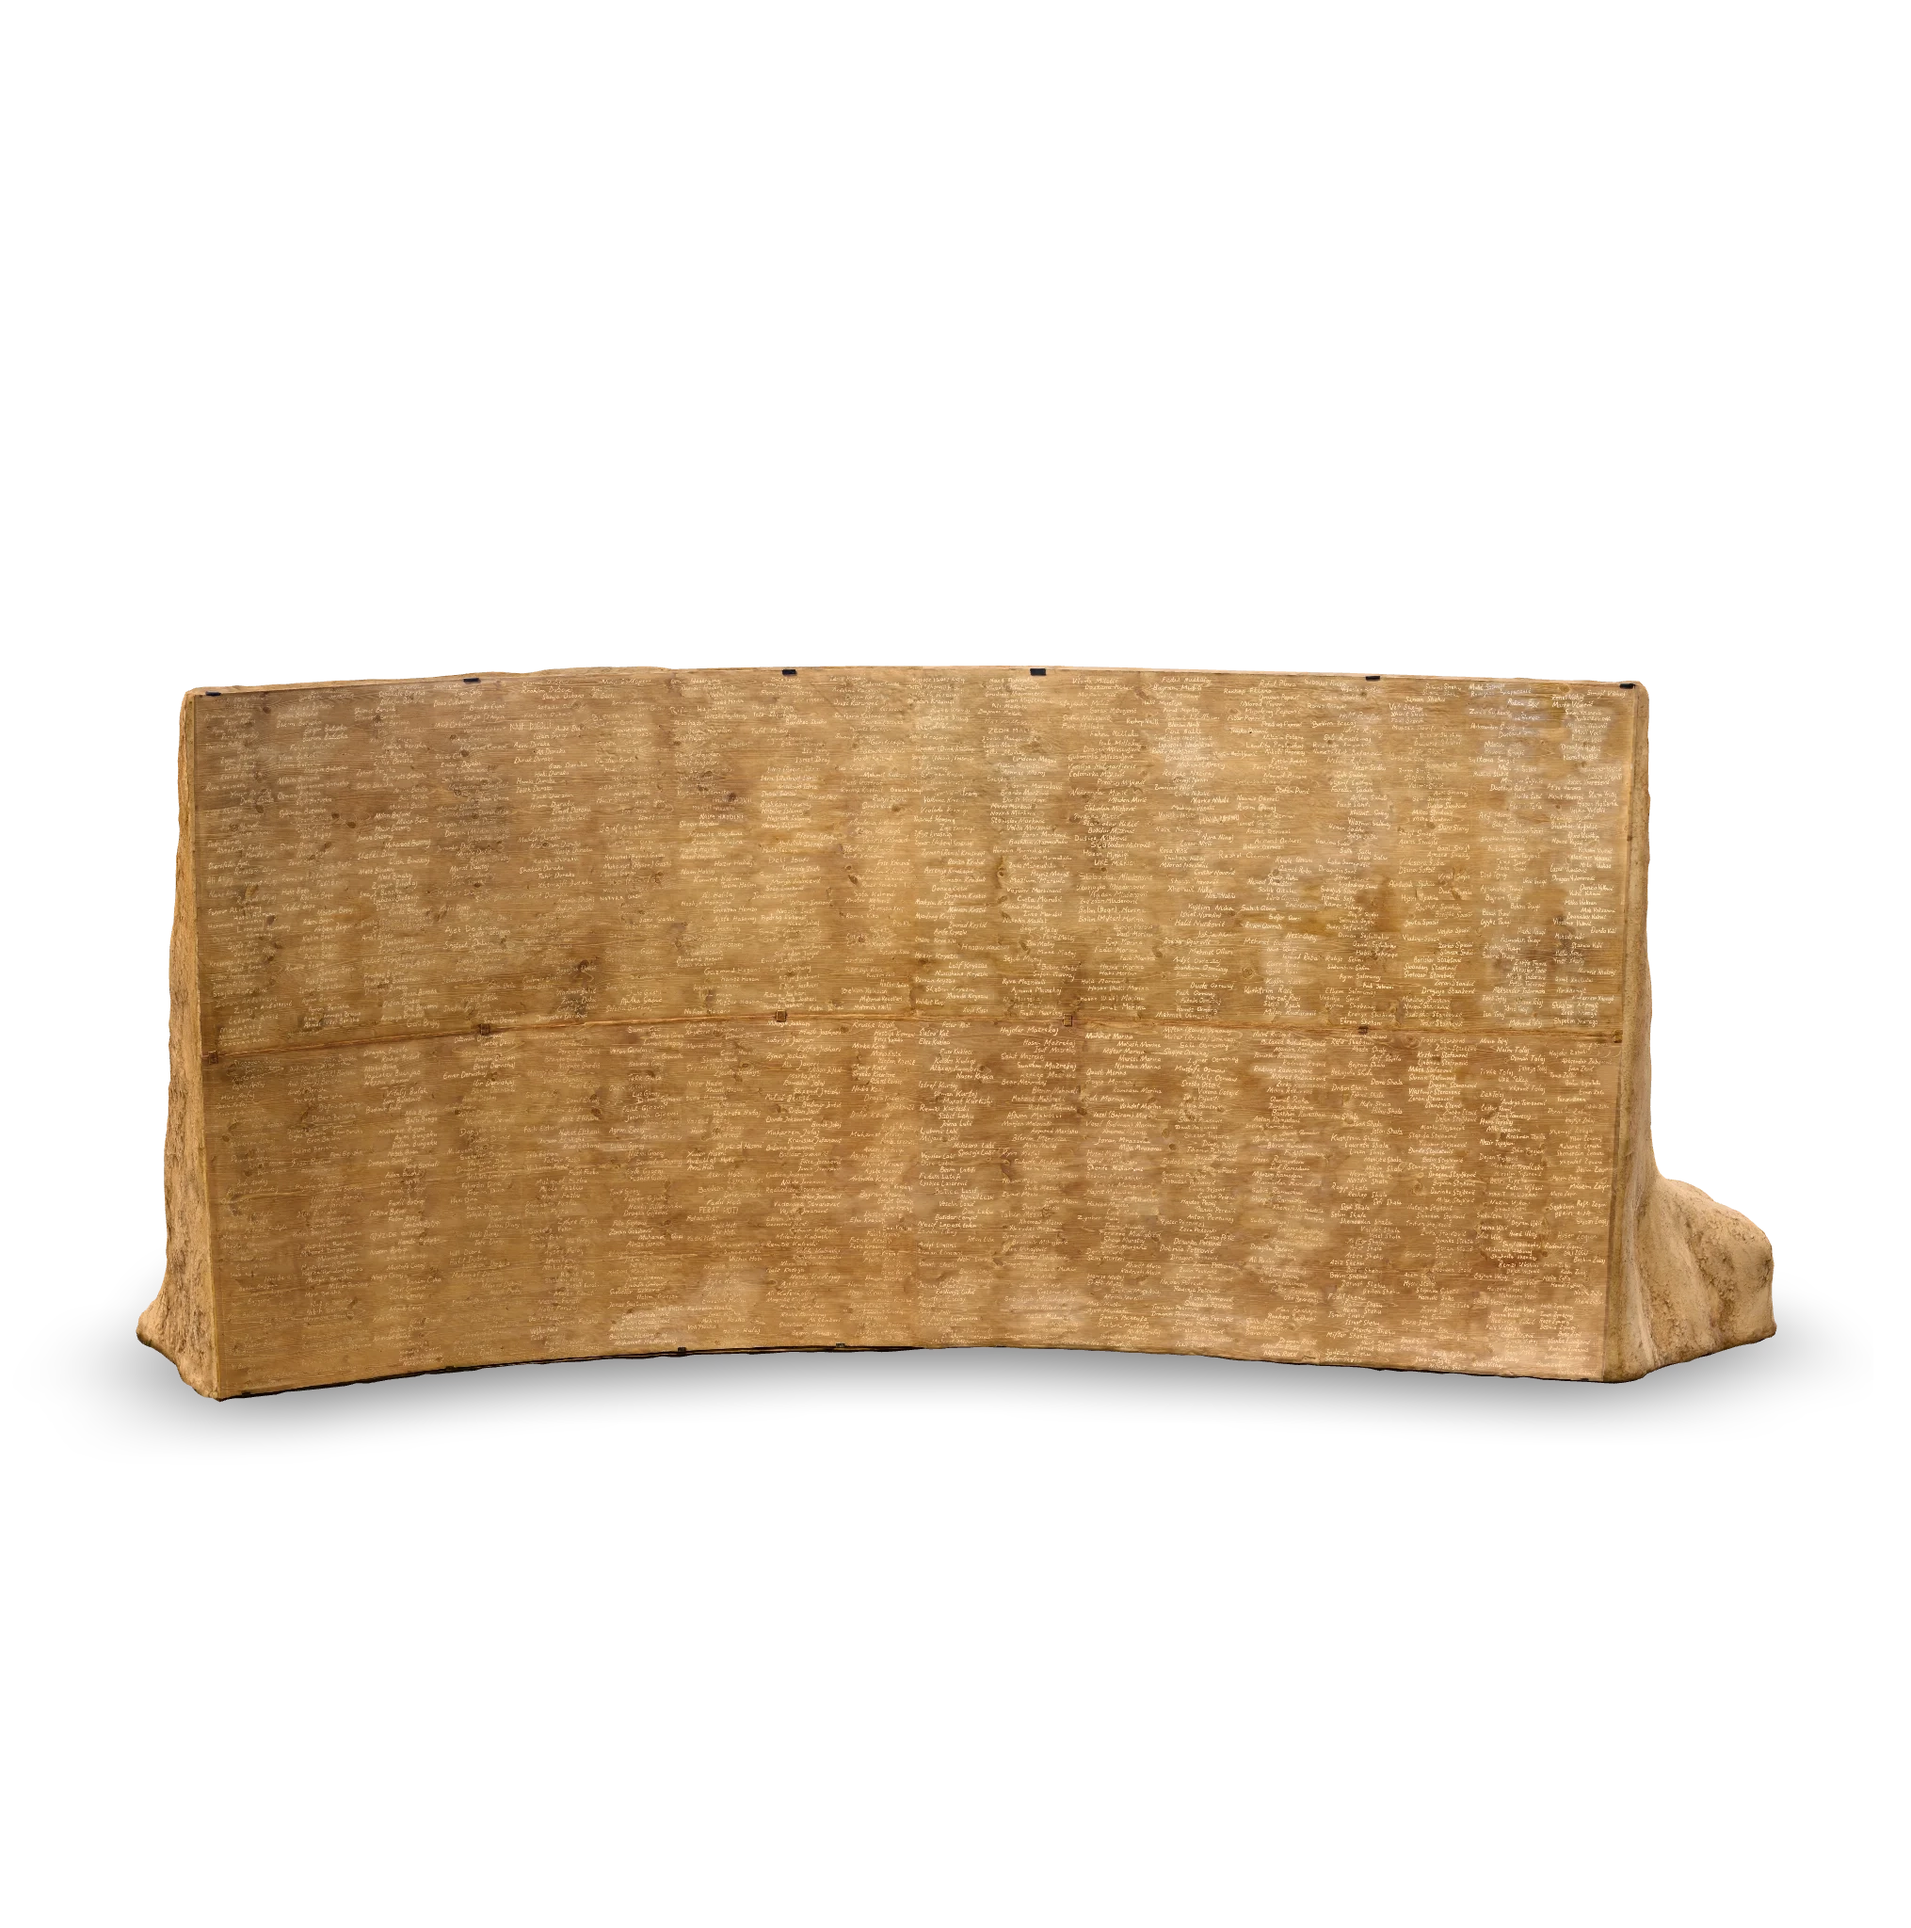
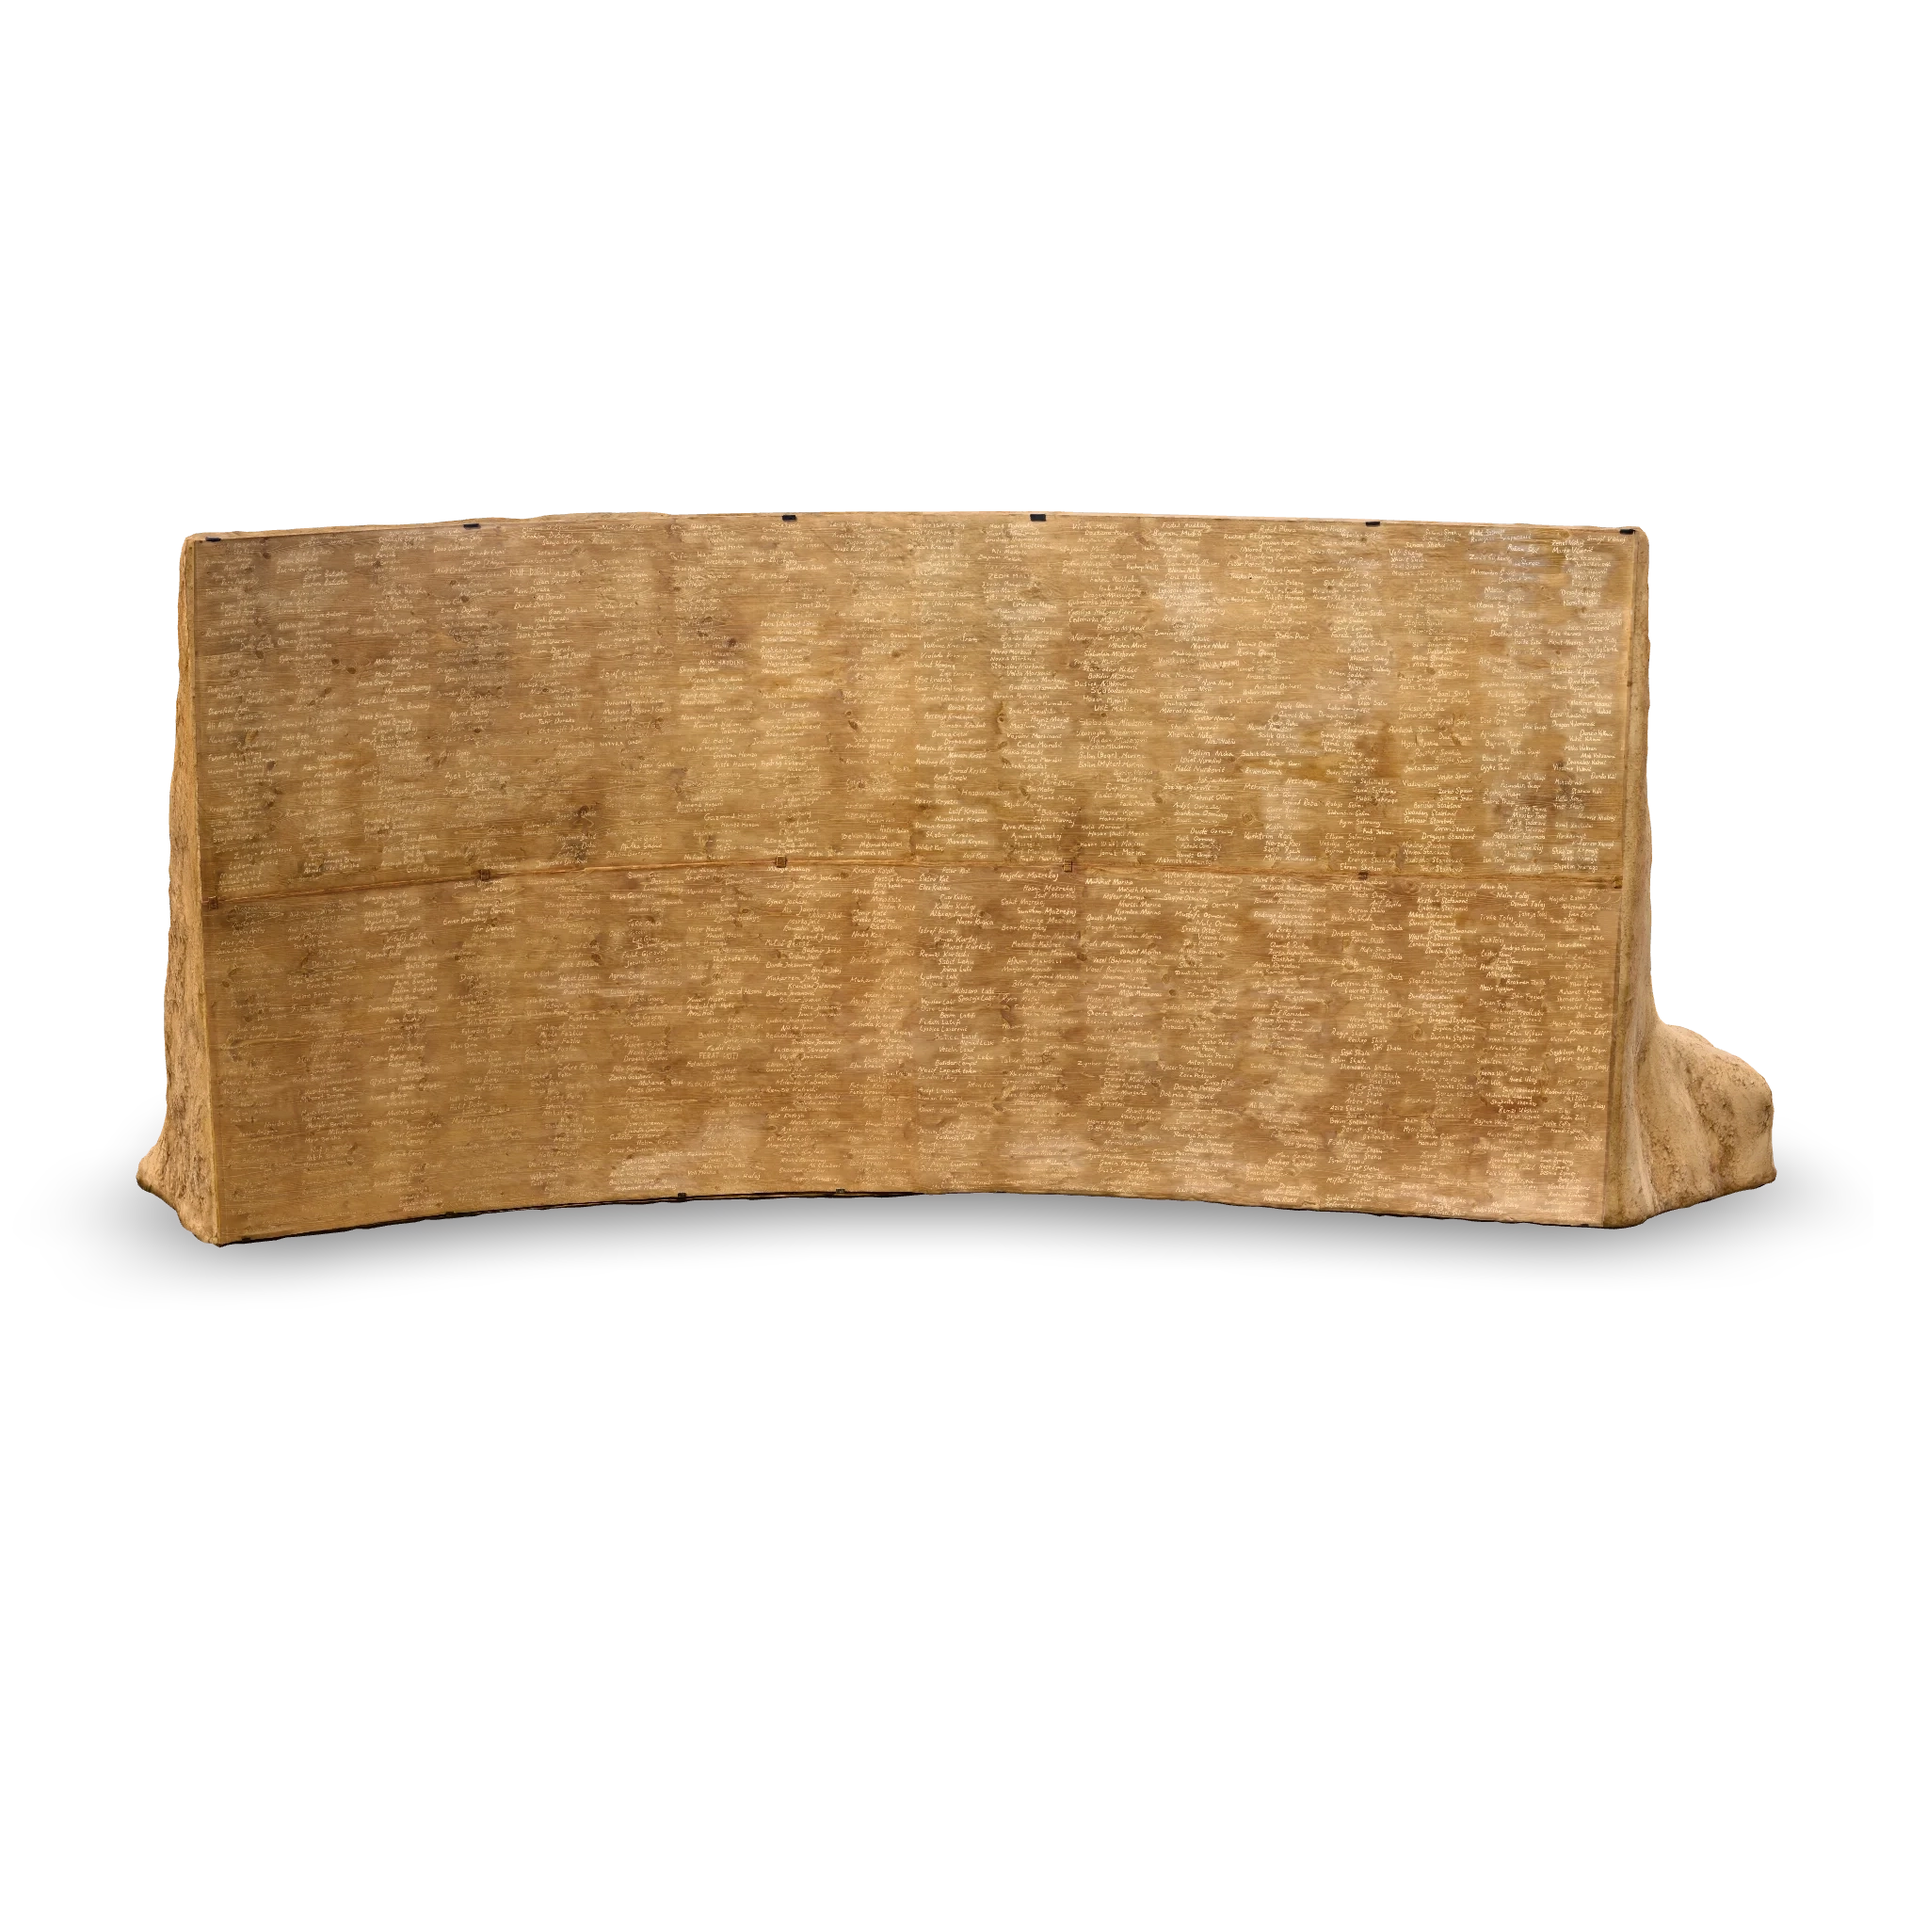
Add files via upload

Changed region(s): [[0.0621, 0.25, 0.9621, 0.75]]

diff --git a/styles.css b/styles.css
@@ -37,6 +37,8 @@ model-viewer {
     box-shadow: 0px 3px 10px 3px rgba(0, 0, 0, 0.5), 0px 0px 5px 1px rgba(0, 0, 0, 0.6);
     border: 1px solid rgba(255, 255, 255, 0.9);
     background-color: rgba(0, 0, 0, 0.5);
+    /* NEW FIX: Forces GPU compositing for visibility on iOS */
+    will-change: transform; 
 }
 
 .progress-bar.hide {
@@ -51,6 +53,8 @@ model-viewer {
     border-radius: 25px;
     float: left;
     transition: width 0.3s;
+    /* NEW FIX: Forces GPU compositing for animation visibility on iOS */
+    will-change: width; 
 }
 
 #ar-button {
@@ -64,7 +68,7 @@ model-viewer {
     left: 50%;
     transform: translateX(-50%);
     white-space: nowrap;
-    bottom: 82px;
+    bottom: 102px;
     padding: 0px 16px 0px 40px;
     font-family: 'Roboto Regular', 'Helvetica Neue', sans-serif;
     font-size: 14px;
@@ -191,13 +195,53 @@ model-viewer > #ar-prompt > img {
 
 /* Logo row styling */
 .logos-row {
-  width: 100%;
+    width: 100%;
+    display: flex; 
+    align-items: center;
+
+    margin: 0 -25px 0 -25px;
+    
+    /* FIX: Increase horizontal padding to align with modal content. */
+    /* Padding is now: 10px top/bottom, 20px left/right */
+    padding: 10px 0px; 
+    //background-color: pink; 
 }
+
 .logos-row .logo-img {
-  height: 40px;
-  width: auto;
-  max-width: 25%;
-  object-fit: contain;
-  display: inline-block;
-  vertical-align: middle;
+    height: 40px; 
+    width: auto;
+    max-width: 25%;
+    object-fit: contain;
+    /* RETAINED: No default margins */
 }
+
+/* NEW: Apply 15px margin to the right of the first three logos */
+.logos-row .logo-img:nth-child(-n+3) {
+    margin-right: 25px;
+    margin-left:0px;
+}
+
+/* This still pushes the 4th logo (EU Logo) to the far right */
+.logos-row .logo-img:nth-child(4) {
+    margin-left: auto;
+    margin-right: -25px; 
+    /* Ensure no extra margin is applied here, it relies on auto */
+}
+
+/* --- Close Button Style --- */
+#closeModal {
+    background: none;
+    border: none;
+    font-size: 35px;  /* Makes the 'X' icon large */
+    color: #333;      /* Dark gray color */
+    cursor: pointer;
+    z-index: 60;      /* Ensure it sits above all other modal content */
+    padding: 5px;
+    line-height: 0.5;
+    transition: color 0.15s ease;
+}
+
+#closeModal:hover {
+    color: #000;      /* Darken on hover */
+}
+

diff --git a/index.html b/index.html
@@ -23,11 +23,10 @@
         poster="poster.webp" 
         shadow-intensity="1.04" 
         shadow-softness="0.84"
-        camera-target="0 1.4m 0"
+        camera-target="0 0.8m 0"
         field-of-view="30deg"
         camera-orbit="0deg 75deg 15.58m"
         min-camera-orbit="auto auto 2.7m"
-
     >
         <div class="progress-bar hide" slot="progress-bar">
             <div class="update-bar"></div>
@@ -127,12 +126,12 @@
              <strong>Supported by:</strong> the European Union Office in Kosovo, Swiss Federal Department of Foreign Affairs, Municipality of Prishtina and Missing Persons Resource Center
           </div>
 
-          <div class="logos-row w-full mt-8 flex justify-between items-center">
-              <img src="Logo-EU-Z-80.png" alt="EU logo" class="logo-img" />
-              <img src="UNDP_logo-Z-80.png" alt="UNDP logo" class="logo-img" />
-              <img src="FDH-KOSOVO-logo-Z-80.png" alt="FDH Kosovo logo" class="logo-img" />
-              <img src="05-British-Embassy-PR.png" alt="British Embassy logo" class="logo-img" />
-          </div>
+          <div class="logos-row">
+    <img src="FDH-KOSOVO-logo-Z-80.png" class="logo-img" alt="FDH Logo">
+    <img src="UNDP_logo-Z-80.png" class="logo-img" alt="UNDP Logo">
+    <img src="05-British-Embassy-PR.png" class="logo-img" alt="British Embassy Logo">
+    <img src="Logo-EU-Z-80.png" class="logo-img" alt="EU Logo">
+</div>
         </div>
         </div>
       </div>
